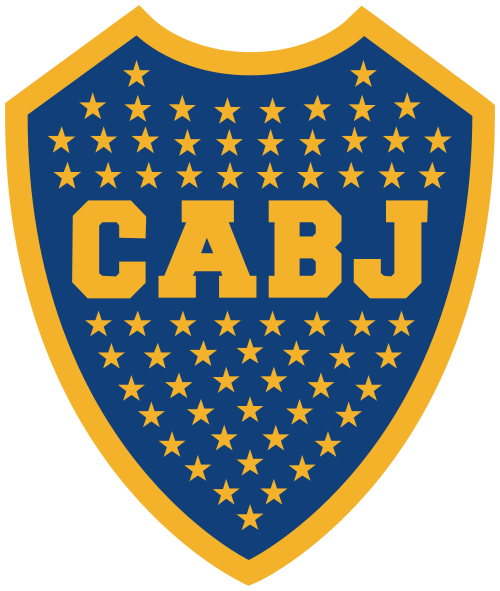
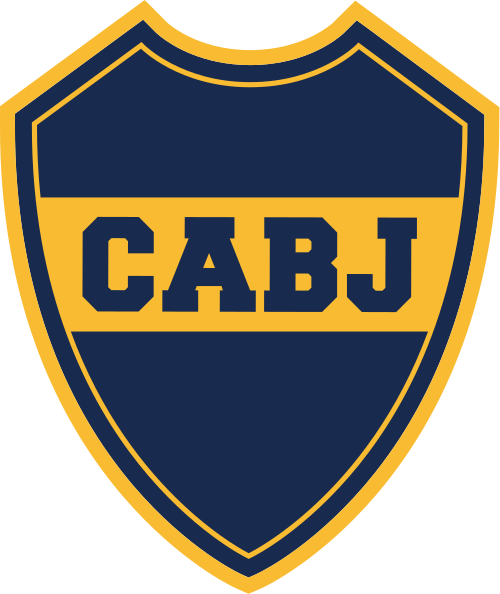
Gráfico de evolución del historial + escudo de Boca sin estrellas
Debajo de "N partidos disputados": línea acumulada, curva suavizada
(interpolación monótona, sin overshoot en los cruces por cero), que
nunca baja del eje X -- su altura es la ventaja del que va arriba en
ese momento, coloreada rojo (River) o azul (Boca). Eje X con
etiquetas de década, salteando las que quedarían pegadas entre sí por
haber pocos partidos en los años más viejos. Se recalcula con los
mismos filtros que ya afectan la tabla y el resumen, vía
/api/lead-evolution.

Escudo de Boca reemplazado por la variante sin estrellas ("Boca
Juniors - Novo Escudo", Wikimedia Commons) que pidió el usuario.

diff --git a/web/components/LeadEvolutionChart.tsx b/web/components/LeadEvolutionChart.tsx
@@ -1,0 +1,147 @@
+"use client";
+
+import { useEffect, useRef } from "react";
+import {
+  Chart,
+  LineController,
+  LineElement,
+  PointElement,
+  LinearScale,
+  CategoryScale,
+  Filler,
+  Tooltip,
+  type ChartDataset,
+} from "chart.js";
+import type { LeadPoint } from "@/lib/data";
+
+Chart.register(LineController, LineElement, PointElement, LinearScale, CategoryScale, Filler, Tooltip);
+
+const RIVER_RED = "#e30022";
+const BOCA_BLUE = "#0a3d91";
+const NEUTRAL = "#9ca3af";
+const AXIS_COLOR = NEUTRAL;
+const GRID_COLOR = "#e5e7eb";
+const MIN_LABEL_GAP = 14;
+
+function colorForSign(sign: number) {
+  if (sign > 0) return RIVER_RED;
+  if (sign < 0) return BOCA_BLUE;
+  return NEUTRAL;
+}
+
+// etiquetas de década en el eje X, salteando cualquiera que quede a menos de
+// MIN_LABEL_GAP partidos de la anterior mostrada (si no, se superponen en las
+// décadas viejas, donde hay pocos partidos por año)
+function buildDecadeLabels(fechas: string[]): Record<number, string> {
+  const labelAt: Record<number, string> = {};
+  let currentDecade: number | null = null;
+  let lastShownIndex = -Infinity;
+
+  fechas.forEach((fecha, i) => {
+    const decade = Math.floor(parseInt(fecha.slice(0, 4), 10) / 10) * 10;
+    if (decade !== currentDecade) {
+      currentDecade = decade;
+      if (i - lastShownIndex >= MIN_LABEL_GAP) {
+        labelAt[i] = String(decade);
+        lastShownIndex = i;
+      }
+    }
+  });
+
+  return labelAt;
+}
+
+export function LeadEvolutionChart({ points }: { points: LeadPoint[] }) {
+  const canvasRef = useRef<HTMLCanvasElement>(null);
+  const chartRef = useRef<Chart | null>(null);
+
+  useEffect(() => {
+    const canvas = canvasRef.current;
+    if (!canvas) return;
+
+    const labels = points.map((p) => p.fecha);
+    const values = points.map((p) => Math.abs(p.cum));
+    const signs = points.map((p) => Math.sign(p.cum));
+    const decadeLabelAt = buildDecadeLabels(labels);
+
+    const dataset: ChartDataset<"line", number[]> = {
+      data: values,
+      borderWidth: 2,
+      pointRadius: 0,
+      pointHoverRadius: 4,
+      pointHoverBackgroundColor: (ctx) => colorForSign(signs[ctx.dataIndex]),
+      cubicInterpolationMode: "monotone",
+      fill: "origin",
+      segment: {
+        borderColor: (ctx) => colorForSign(signs[ctx.p1DataIndex]),
+        backgroundColor: (ctx) => colorForSign(signs[ctx.p1DataIndex]) + "1a",
+      },
+    };
+
+    if (!chartRef.current) {
+      chartRef.current = new Chart(canvas, {
+        type: "line",
+        data: { labels, datasets: [dataset] },
+        options: {
+          responsive: true,
+          maintainAspectRatio: false,
+          animation: false,
+          interaction: { mode: "index", intersect: false },
+          plugins: {
+            tooltip: {
+              callbacks: {
+                title: (items) => items[0].label,
+                label: (item) => {
+                  const v = item.parsed.y;
+                  const s = signs[item.dataIndex];
+                  if (v === 0) return "Igualados";
+                  return s > 0 ? `River +${v}` : `Boca +${v}`;
+                },
+              },
+            },
+          },
+          scales: {
+            x: {
+              grid: { display: false },
+              ticks: {
+                autoSkip: false,
+                maxRotation: 0,
+                color: AXIS_COLOR,
+                font: { size: 10 },
+                callback: (_value, index) => decadeLabelAt[index] ?? "",
+              },
+            },
+            y: {
+              beginAtZero: true,
+              grid: { color: GRID_COLOR },
+              ticks: { color: AXIS_COLOR, font: { size: 10 } },
+            },
+          },
+        },
+      });
+    } else {
+      chartRef.current.data.labels = labels;
+      chartRef.current.data.datasets = [dataset];
+      chartRef.current.options.scales!.x!.ticks!.callback = (_value, index) =>
+        decadeLabelAt[index] ?? "";
+      chartRef.current.update();
+    }
+  }, [points]);
+
+  useEffect(() => {
+    return () => {
+      chartRef.current?.destroy();
+      chartRef.current = null;
+    };
+  }, []);
+
+  return (
+    <div className="relative w-full h-[120px] bg-celeste-light rounded-xl p-3">
+      <canvas
+        ref={canvasRef}
+        role="img"
+        aria-label="Evolución de quién va arriba en el historial: la línea sube o baja según cuántos partidos de ventaja tiene el que va ganando en ese momento, en rojo si es River y en azul si es Boca"
+      />
+    </div>
+  );
+}

diff --git a/web/components/HistorialExplorer.tsx b/web/components/HistorialExplorer.tsx
@@ -1,7 +1,7 @@
 "use client";
 
 import { useCallback, useEffect, useRef, useState, useTransition } from "react";
-import type { Match, Summary } from "@/lib/data";
+import type { LeadPoint, Match, Summary } from "@/lib/data";
 import { SummaryHero } from "./SummaryHero";
 
 const PAGE_SIZE = 10;
@@ -35,6 +35,7 @@ type Props = {
   initialSummary: Summary;
   initialMatches: Match[];
   initialTotal: number;
+  initialLeadEvolution: LeadPoint[];
   faseOptions: string[];
 };
 
@@ -269,11 +270,13 @@ export function HistorialExplorer({
   initialSummary,
   initialMatches,
   initialTotal,
+  initialLeadEvolution,
   faseOptions,
 }: Props) {
   const [summary, setSummary] = useState<Summary>(initialSummary);
   const [matches, setMatches] = useState<Match[]>(initialMatches);
   const [total, setTotal] = useState(initialTotal);
+  const [leadEvolution, setLeadEvolution] = useState<LeadPoint[]>(initialLeadEvolution);
   const [filters, setFilters] = useState<Filters>(EMPTY_FILTERS);
   const [isPending, startTransition] = useTransition();
   const isFirstRun = useRef(true);
@@ -316,6 +319,11 @@ export function HistorialExplorer({
     [buildParams, fetchJson]
   );
 
+  const fetchLeadEvolution = useCallback(
+    (f: Filters) => fetchJson(`/api/lead-evolution?${buildParams(f).toString()}`),
+    [buildParams, fetchJson]
+  );
+
   // los filtros por columna afectan tanto la tabla como el resumen del encabezado
   useEffect(() => {
     if (isFirstRun.current) {
@@ -325,13 +333,15 @@ export function HistorialExplorer({
     const handle = setTimeout(() => {
       startTransition(async () => {
         try {
-          const [matchesData, summaryData] = await Promise.all([
+          const [matchesData, summaryData, leadEvolutionData] = await Promise.all([
             fetchMatches(filters, 0),
             fetchSummary(filters),
+            fetchLeadEvolution(filters),
           ]);
           setMatches(matchesData.matches);
           setTotal(matchesData.total);
           setSummary(summaryData);
+          setLeadEvolution(leadEvolutionData);
         } catch {
           // se mantiene el estado anterior si falla la consulta
         }
@@ -367,7 +377,11 @@ export function HistorialExplorer({
 
   return (
     <>
-      <SummaryHero summary={summary} caption={summaryCaption(filters.tipo)} />
+      <SummaryHero
+        summary={summary}
+        caption={summaryCaption(filters.tipo)}
+        leadEvolution={leadEvolution}
+      />
 
       <section className="max-w-6xl mx-auto px-4 sm:px-8 py-10 sm:py-14 flex flex-col gap-6">
         <div className="flex items-center justify-between gap-4">

diff --git a/web/lib/data.ts b/web/lib/data.ts
@@ -24,6 +24,11 @@ export type Summary = {
   golesBoca: number;
 };
 
+export type LeadPoint = {
+  fecha: string;
+  cum: number;
+};
+
 export type MatchFilters = {
   fechaDesde?: string;
   fechaHasta?: string;
@@ -171,6 +176,31 @@ export async function getSummary(filters: MatchFilters = {}): Promise<Summary> {
     golesRiver: Number(row.golesRiver),
     golesBoca: Number(row.golesBoca),
   };
+}
+
+export async function getLeadEvolution(filters: MatchFilters = {}): Promise<LeadPoint[]> {
+  const bigquery = getBigQueryClient();
+  const { where, params, types } = buildWhere(filters, {
+    excludeAmistosoByDefault: true,
+  });
+
+  const [rows] = await bigquery.query({
+    query: `
+      SELECT fecha, ganador
+      FROM ${FULL_TABLE}
+      ${where}
+      ORDER BY fecha ASC
+    `,
+    params,
+    types,
+  });
+
+  let cum = 0;
+  return rows.map((row: { fecha: { value: string }; ganador: string }) => {
+    if (row.ganador === "River") cum += 1;
+    else if (row.ganador === "Boca") cum -= 1;
+    return { fecha: row.fecha.value, cum };
+  });
 }
 
 export async function getFaseOptions(): Promise<string[]> {

diff --git a/web/app/api/lead-evolution/route.ts b/web/app/api/lead-evolution/route.ts
@@ -1,0 +1,35 @@
+import { NextRequest, NextResponse } from "next/server";
+import { getLeadEvolution } from "@/lib/data";
+
+export async function GET(request: NextRequest) {
+  const params = request.nextUrl.searchParams;
+
+  const fechaDesde = params.get("fechaDesde") ?? undefined;
+  const fechaHasta = params.get("fechaHasta") ?? undefined;
+  const torneo = params.get("torneo") ?? undefined;
+  const fases = params.getAll("fase");
+  const local = params.get("local") ?? undefined;
+  const estadio = params.get("estadio") ?? undefined;
+  const tipo = params.get("tipo") ?? undefined;
+  const ganador = params.get("ganador") ?? undefined;
+
+  try {
+    const points = await getLeadEvolution({
+      fechaDesde,
+      fechaHasta,
+      torneo,
+      fases,
+      local,
+      estadio,
+      tipo,
+      ganador,
+    });
+    return NextResponse.json(points);
+  } catch (error) {
+    console.error("Error consultando BigQuery:", error);
+    return NextResponse.json(
+      { error: "No se pudo consultar la evolución del historial." },
+      { status: 500 }
+    );
+  }
+}

diff --git a/web/components/SummaryHero.tsx b/web/components/SummaryHero.tsx
@@ -1,6 +1,7 @@
 import Image from "next/image";
-import type { Summary } from "@/lib/data";
+import type { LeadPoint, Summary } from "@/lib/data";
 import { StatCard } from "./StatCard";
+import { LeadEvolutionChart } from "./LeadEvolutionChart";
 
 const CRESTS = {
   river: { src: "/river-crest.png", alt: "Escudo de River Plate" },
@@ -10,9 +11,11 @@ const CRESTS = {
 export function SummaryHero({
   summary,
   caption,
+  leadEvolution,
 }: {
   summary: Summary;
   caption?: string;
+  leadEvolution: LeadPoint[];
 }) {
   const { total, river, boca, empates } = summary;
   const pct = (n: number) => (total > 0 ? Math.round((n / total) * 1000) / 10 : 0);
@@ -89,6 +92,12 @@ export function SummaryHero({
           {total} partidos disputados
           {caption && <span className="font-normal opacity-80"> ({caption})</span>}
         </p>
+
+        {leadEvolution.length > 1 && (
+          <div className="w-full">
+            <LeadEvolutionChart points={leadEvolution} />
+          </div>
+        )}
       </div>
     </section>
   );

diff --git a/web/app/page.tsx b/web/app/page.tsx
@@ -1,13 +1,14 @@
-import { getFaseOptions, getMatches, getSummary } from "@/lib/data";
+import { getFaseOptions, getLeadEvolution, getMatches, getSummary } from "@/lib/data";
 import { HistorialExplorer } from "@/components/HistorialExplorer";
 
 export const dynamic = "force-dynamic";
 
 export default async function Home() {
-  const [summary, { matches, total }, faseOptions] = await Promise.all([
+  const [summary, { matches, total }, faseOptions, leadEvolution] = await Promise.all([
     getSummary(),
     getMatches({ limit: 10, offset: 0 }),
     getFaseOptions(),
+    getLeadEvolution(),
   ]);
 
   return (
@@ -22,6 +23,7 @@ export default async function Home() {
         initialSummary={summary}
         initialMatches={matches}
         initialTotal={total}
+        initialLeadEvolution={leadEvolution}
         faseOptions={faseOptions}
       />
 
